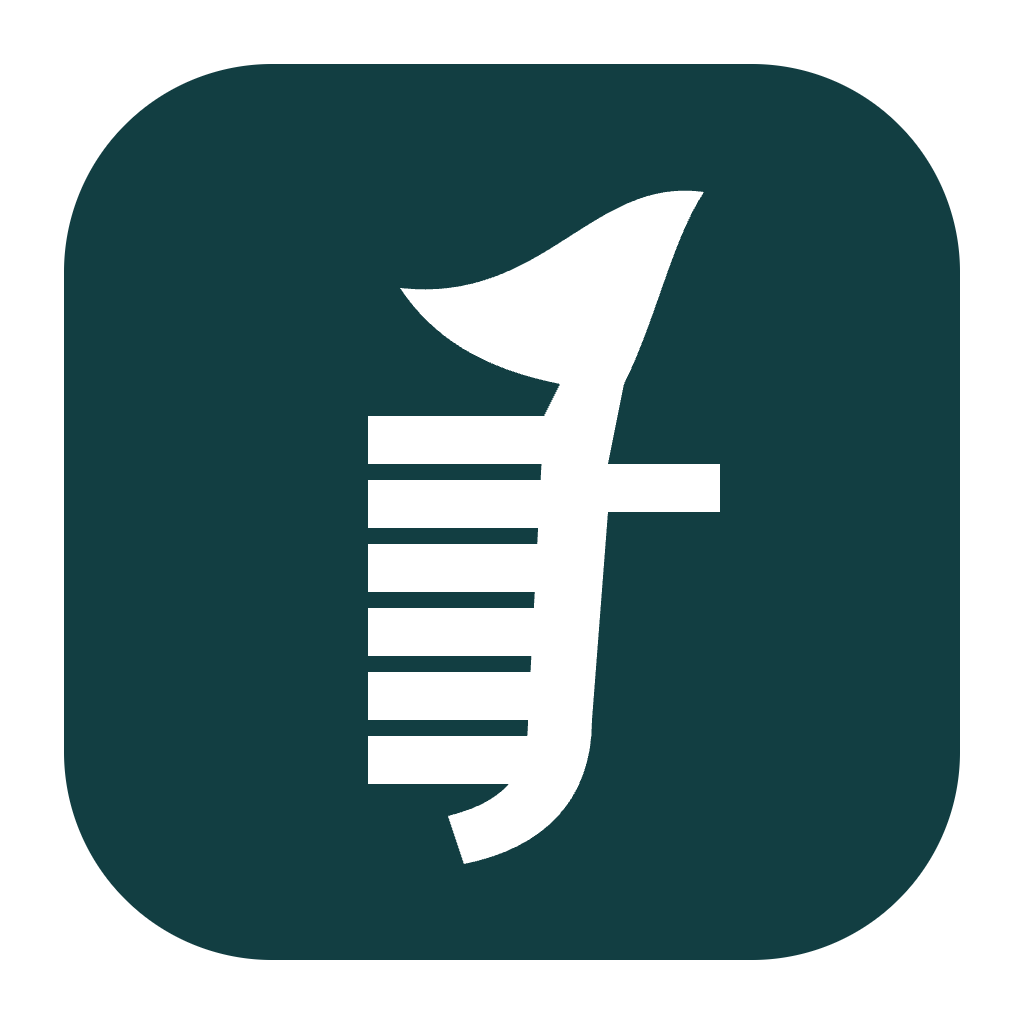
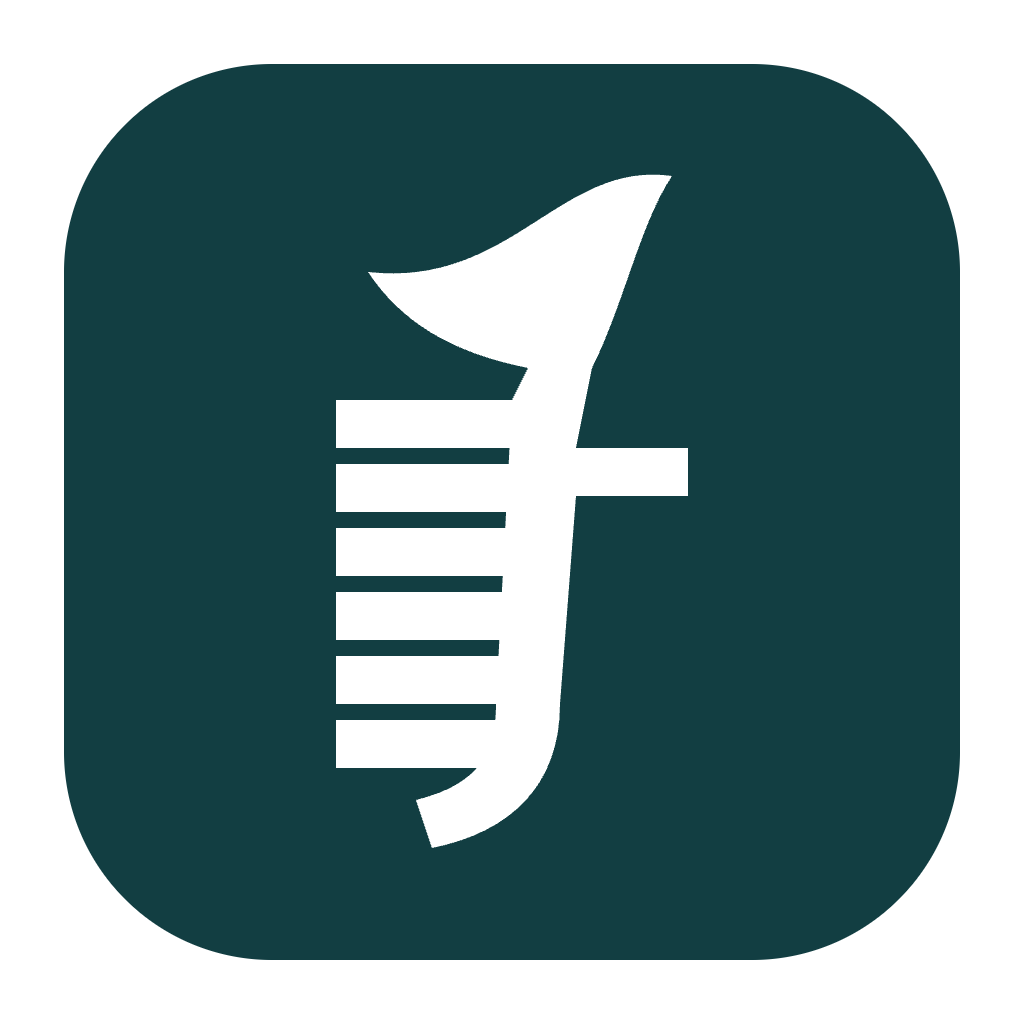
Center the ferro glyph within its tile in both themes

Changed region(s): [[0.3125, 0.1562, 0.7188, 0.8438]]

diff --git a/test/dev-brand.test.ts b/test/dev-brand.test.ts
@@ -208,7 +208,9 @@ it('keeps the SVG and renderer ferro silhouette and palette in sync', () => {
   expect(mark.querySelector('path')?.getAttribute('d')).toBe(svg.querySelector('path')?.getAttribute('d'));
   for (const selector of ['rect', 'path']) {
     expect(mark.querySelector(selector)?.getAttribute('fill')).toBe(svg.querySelector(selector)?.getAttribute('fill'));
+    expect(mark.querySelector(selector)?.getAttribute('transform')).toBe(svg.querySelector(selector)?.getAttribute('transform'));
   }
+  expect(svg.querySelector('path')?.getAttribute('transform')).toBe('translate(-2 -1)');
   expect(svg.querySelector('rect')?.getAttribute('fill')).toBe('#123e42');
   expect(svg.querySelector('path')?.getAttribute('fill')).toBe('#ffffff');
   expect(read('scripts/make-icon.mjs')).toContain('const INK = [18, 62, 66]');

diff --git a/src/renderer/index.html b/src/renderer/index.html
@@ -19,7 +19,7 @@
         <g id="i-mark">
           <g transform="scale(.375)" stroke="none">
             <rect x="4" y="4" width="56" height="56" rx="13" fill="#123e42" />
-            <path fill="#ffffff" d="M35 24C30 23 27 21 25 18C34 19 37 11 44 12C42 15 41 20 39 24L38 29H45V32H38L37 45C37 50 34 53 29 54L28 51C32 50 33 48 33 45L34 26Z M23 26H37V29H23Z M23 30H37V33H23Z M23 34H36V37H23Z M23 38H36V41H23Z M23 42H36V45H23Z M23 46H35V49H23Z" />
+            <path fill="#ffffff" transform="translate(-2 -1)" d="M35 24C30 23 27 21 25 18C34 19 37 11 44 12C42 15 41 20 39 24L38 29H45V32H38L37 45C37 50 34 53 29 54L28 51C32 50 33 48 33 45L34 26Z M23 26H37V29H23Z M23 30H37V33H23Z M23 34H36V37H23Z M23 38H36V41H23Z M23 42H36V45H23Z M23 46H35V49H23Z" />
           </g>
         </g>
       </defs>
